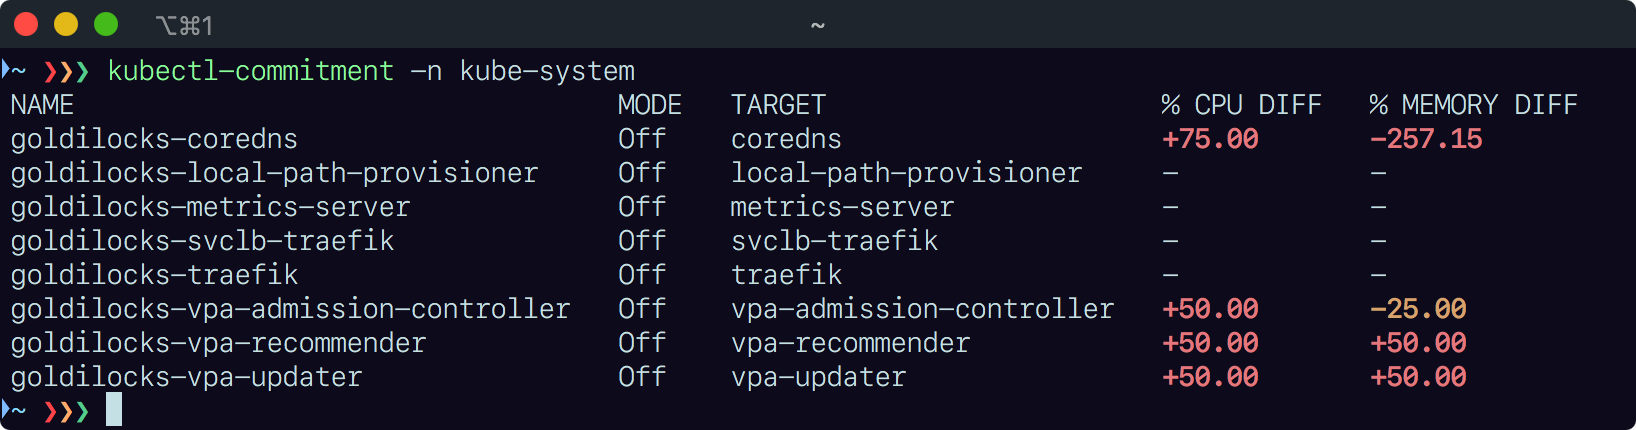
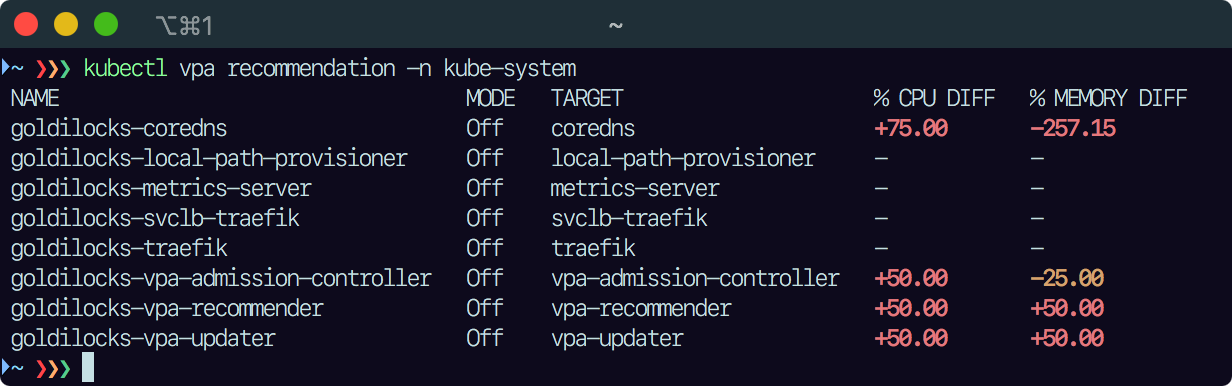
refactor: rename plugin to vpa-recommendation
Related to https://github.com/kubernetes-sigs/krew-index/pull/1923

diff --git a/vpa/target.go b/vpa/target.go
@@ -14,7 +14,7 @@ import (
 	"k8s.io/apimachinery/pkg/runtime"
 	"k8s.io/apimachinery/pkg/runtime/schema"
 
-	"github.com/wI2L/kubectl-commitment/client"
+	"github.com/wI2L/kubectl-vpa-recommendation/client"
 )
 
 // wellKnownControllerKind represents the Kind of common controllers.
@@ -73,6 +73,14 @@ func NewTargetController(c client.Interface, ref *autoscalingv1.CrossVersionObje
 	if err != nil {
 		return nil, err
 	}
+	labelSelector, err := resolveLabelSelector(obj)
+	if err != nil {
+		return nil, err
+	}
+	selector, err := metav1.LabelSelectorAsSelector(labelSelector)
+	if err != nil {
+		return nil, err
+	}
 	// The PodSpec template defined by a controller might not represent
 	// the final spec of the pods. For example, a LimitRanger controller
 	// could change the spec of pods to set default resource requests and
@@ -89,7 +97,7 @@ func NewTargetController(c client.Interface, ref *autoscalingv1.CrossVersionObje
 	if err := conv.FromUnstructured(m, &meta); err != nil {
 		return nil, err
 	}
-	pods, err := c.ListDependentPods(context.Background(), meta)
+	pods, err := c.ListDependentPods(context.Background(), meta, selector.String())
 	if err != nil {
 		return nil, err
 	}
@@ -103,22 +111,22 @@ func NewTargetController(c client.Interface, ref *autoscalingv1.CrossVersionObje
 }
 
 // GetContainerRequests returns the resource requests of a container.
-func (tc *TargetController) GetContainerRequests(name string) *ResourceQuantities {
+func (tc *TargetController) GetContainerRequests(name string) ResourceQuantities {
 	for _, c := range tc.podSpec.Containers {
 		if c.Name == name {
-			return &ResourceQuantities{
+			return ResourceQuantities{
 				CPU:    c.Resources.Requests.Cpu(),
 				Memory: c.Resources.Requests.Memory(),
 			}
 		}
 	}
-	return nil
+	return ResourceQuantities{}
 }
 
 // GetRequests returns the resource requests defined by the
 // pod spec of the controller, which is the sum of all resource
 // quantities for each container declared by the spec.
-func (tc *TargetController) GetRequests() *ResourceQuantities {
+func (tc *TargetController) GetRequests() ResourceQuantities {
 	var cpu, mem resource.Quantity
 
 	for _, ctr := range tc.podSpec.Containers {
@@ -130,20 +138,47 @@ func (tc *TargetController) GetRequests() *ResourceQuantities {
 			mem.Add(*m)
 		}
 	}
-	return &ResourceQuantities{CPU: &cpu, Memory: &mem}
+	return ResourceQuantities{CPU: &cpu, Memory: &mem}
 }
 
-// resolvePodSpec returns the corev1.PodSpec field of a
-// controller. The method cache the result during its first
-// call and return the same value for subsequent calls.
+// resolvePodSpec returns the corev1.PodSpec field of a controller.
 func resolvePodSpec(obj *unstructuredv1.Unstructured) (*corev1.PodSpec, error) {
-	kind := obj.GetKind()
-
 	fields := []string{
 		"spec",
 		"template", // PodTemplateSpec
 		"spec",     // PodSpec
 	}
+	var err error
+	fields, err = genericControllerSpecPath(obj.GetKind(), fields)
+	if err != nil {
+		return nil, err
+	}
+	spec := &corev1.PodSpec{}
+	if err := decodeNestedFieldInto(obj, fields, spec); err != nil {
+		return nil, err
+	}
+	return spec, nil
+}
+
+// resolveLabelSelector returns the metav1.LabelSelector field of a controller spec.
+func resolveLabelSelector(obj *unstructuredv1.Unstructured) (*metav1.LabelSelector, error) {
+	fields := []string{
+		"spec",
+		"selector",
+	}
+	var err error
+	fields, err = genericControllerSpecPath(obj.GetKind(), fields)
+	if err != nil {
+		return nil, err
+	}
+	selector := &metav1.LabelSelector{}
+	if err := decodeNestedFieldInto(obj, fields, selector); err != nil {
+		return nil, err
+	}
+	return selector, nil
+}
+
+func genericControllerSpecPath(kind string, fields []string) ([]string, error) {
 	switch wellKnownControllerKind(kind) {
 	case ds, deploy, job, rs, rc, sts:
 		// Same default fields.
@@ -152,23 +187,22 @@ func resolvePodSpec(obj *unstructuredv1.Unstructured) (*corev1.PodSpec, error) {
 			"spec",        // CronJobSpec
 			"jobTemplate", // JobTemplateSpec
 		}
-		fields = append(prefix, fields...)
+		return append(prefix, fields...), nil
 	default:
 		return nil, fmt.Errorf("unknown kind: %s", kind)
 	}
+	return fields, nil
+}
+
+func decodeNestedFieldInto(obj *unstructuredv1.Unstructured, fields []string, into interface{}) error {
 	nmap, ok, err := unstructuredv1.NestedMap(obj.Object, fields...)
 	if err != nil {
-		return nil, fmt.Errorf("nested field has invalid type")
+		return fmt.Errorf("nested field has invalid type")
 	}
 	if !ok {
-		return nil, fmt.Errorf("nested field with path %s not found", strings.Join(fields, "."))
+		return fmt.Errorf("nested field with path %s not found", strings.Join(fields, "."))
 	}
 	conv := runtime.DefaultUnstructuredConverter
-	spec := &corev1.PodSpec{}
 
-	err = conv.FromUnstructured(nmap, spec)
-	if err != nil {
-		return nil, err
-	}
-	return spec, nil
+	return conv.FromUnstructured(nmap, into)
 }

diff --git a/client/client.go b/client/client.go
@@ -43,7 +43,7 @@ type Interface interface {
 	HasGroupVersion(version schema.GroupVersion) (bool, error)
 	ListVPAResources(context.Context, ListOptions) ([]*vpav1.VerticalPodAutoscaler, error)
 	GetVPATarget(context.Context, *autoscalingv1.CrossVersionObjectReference, string) (*unstructuredv1.Unstructured, error)
-	ListDependentPods(ctx context.Context, targetMeta metav1.ObjectMeta) ([]*corev1.Pod, error)
+	ListDependentPods(ctx context.Context, targetMeta metav1.ObjectMeta, labelSelector string) ([]*corev1.Pod, error)
 }
 
 var _ Interface = (*client)(nil)
@@ -191,14 +191,15 @@ func (c *client) GetVPATarget(ctx context.Context, ref *autoscalingv1.CrossVersi
 
 // ListDependentPods returns the list of pods that depends
 // on the controller represented by its metadata.
-func (c *client) ListDependentPods(ctx context.Context, targetMeta metav1.ObjectMeta) ([]*corev1.Pod, error) {
+func (c *client) ListDependentPods(ctx context.Context, targetMeta metav1.ObjectMeta, labelSelector string) ([]*corev1.Pod, error) {
 	i := c.coreClient.Pods(targetMeta.Namespace)
 
 	p := pager.New(func(ctx context.Context, o metav1.ListOptions) (runtime.Object, error) {
 		return i.List(ctx, o)
 	})
 	obj, _, err := p.List(ctx, metav1.ListOptions{
-		Limit: 250,
+		LabelSelector: labelSelector,
+		Limit:         250,
 	})
 	if err != nil {
 		return nil, err

diff --git a/cli/command.go b/cli/command.go
@@ -18,9 +18,9 @@ import (
 	"k8s.io/kubectl/pkg/util/templates"
 	"k8s.io/utils/pointer"
 
-	"github.com/wI2L/kubectl-commitment/client"
-	"github.com/wI2L/kubectl-commitment/internal/version"
-	"github.com/wI2L/kubectl-commitment/vpa"
+	"github.com/wI2L/kubectl-vpa-recommendation/client"
+	"github.com/wI2L/kubectl-vpa-recommendation/internal/version"
+	"github.com/wI2L/kubectl-vpa-recommendation/vpa"
 )
 
 const (
@@ -218,7 +218,7 @@ func (co *CommandOptions) bindRecommendationsAndRequests(list []*vpav1.VerticalP
 				childRow := &tableRow{
 					Name:             fmt.Sprintf("%s %s", prefix, c.ContainerName),
 					Requests:         rqs,
-					Recommendations:  &rcs,
+					Recommendations:  rcs,
 					CPUDifference:    vpa.DiffQuantitiesAsPercent(rqs.CPU, rcs.CPU),
 					MemoryDifference: vpa.DiffQuantitiesAsPercent(rqs.Memory, rcs.Memory),
 				}

diff --git a/vpa/recommendation.go b/vpa/recommendation.go
@@ -8,9 +8,9 @@ import (
 // GetTotalRecommendations returns the total resource recommendations
 // of the given VPA as the sum of all resource quantities recommended
 // for each container.
-func GetTotalRecommendations(vpa *vpav1.VerticalPodAutoscaler) *ResourceQuantities {
+func GetTotalRecommendations(vpa *vpav1.VerticalPodAutoscaler) ResourceQuantities {
 	if vpa == nil || vpa.Status.Recommendation == nil {
-		return nil
+		return ResourceQuantities{}
 	}
 	var cpu, mem resource.Quantity
 	for _, cr := range vpa.Status.Recommendation.ContainerRecommendations {
@@ -21,7 +21,7 @@ func GetTotalRecommendations(vpa *vpav1.VerticalPodAutoscaler) *ResourceQuantiti
 			mem.Add(*m)
 		}
 	}
-	return &ResourceQuantities{
+	return ResourceQuantities{
 		CPU:    &cpu,
 		Memory: &mem,
 	}

diff --git a/cmd/kubectl-vpa-recommendation/kubectl-vpa-recommendation.go b/cmd/kubectl-vpa-recommendation/kubectl-vpa-recommendation.go
@@ -15,10 +15,10 @@ import (
 	// Initialize client auth plugins.
 	_ "k8s.io/client-go/plugin/pkg/client/auth"
 
-	"github.com/wI2L/kubectl-commitment/cli"
+	"github.com/wI2L/kubectl-vpa-recommendation/cli"
 )
 
-const pluginName = "kubectl-commitment"
+const pluginName = "kubectl-vpa-recommendation"
 
 func main() {
 	cmdName := pluginName
@@ -27,7 +27,7 @@ func main() {
 	// use a nicer format for the root command name in
 	// help outputs generated by cobra.
 	if strings.HasPrefix(filepath.Base(os.Args[0]), "kubectl-") {
-		cmdName = strings.ReplaceAll(cmdName, "-", "")
+		cmdName = strings.ReplaceAll(cmdName, "-", " ")
 	}
 	streams := genericclioptions.IOStreams{
 		In:     os.Stdin,

diff --git a/cli/table.go b/cli/table.go
@@ -12,7 +12,7 @@ import (
 	"k8s.io/apimachinery/pkg/api/resource"
 	"k8s.io/apimachinery/pkg/runtime/schema"
 
-	"github.com/wI2L/kubectl-commitment/vpa"
+	"github.com/wI2L/kubectl-vpa-recommendation/vpa"
 )
 
 const (
@@ -54,8 +54,8 @@ type tableRow struct {
 	Mode             string
 	TargetName       string
 	TargetGVK        schema.GroupVersionKind
-	Requests         *vpa.ResourceQuantities
-	Recommendations  *vpa.ResourceQuantities
+	Requests         vpa.ResourceQuantities
+	Recommendations  vpa.ResourceQuantities
 	CPUDifference    *float64
 	MemoryDifference *float64
 	Children         []*tableRow

diff --git a/vpa/resource.go b/vpa/resource.go
@@ -22,7 +22,7 @@ type ResourceQuantities struct {
 // two quantities expressed as a percentage of each other,
 // where x is the request and y the recommendation.
 func DiffQuantitiesAsPercent(x, y *resource.Quantity) *float64 {
-	if x.IsZero() || y.IsZero() {
+	if x == nil || y == nil || x.IsZero() || y.IsZero() {
 		return nil
 	}
 	ai, oka := x.AsInt64()

diff --git a/README.md b/README.md
@@ -1,10 +1,10 @@
-# kubectl commitment
+# `kubectl vpa-recommendation`
 
 <p align="left">
-    <a href="https://github.com/wI2L/kubectl-commitment/actions"><img src="https://github.com/wI2L/kubectl-commitment/workflows/ci/badge.svg"></a>
-    <a href="https://goreportcard.com/report/github.com/wI2L/kubectl-commitment"><img src="https://goreportcard.com/badge/github.com/wI2L/kubectl-commitment"></a>
-    <a href="https://github.com/wI2L/kubectl-commitment/releases"><img src="https://img.shields.io/github/v/tag/wI2L/kubectl-commitment?color=blueviolet&label=release&sort=semver"></a>
-    <img src="https://codecov.io/gh/wI2L/kubectl-commitment/branch/master/graph/badge.svg?token=UTD8CW2ZS2"/>
+    <a href="https://github.com/wI2L/kubectl-vpa-recommendation/actions"><img src="https://github.com/wI2L/kubectl-vpa-recommendation/workflows/ci/badge.svg"></a>
+    <a href="https://goreportcard.com/report/github.com/wI2L/kubectl-vpa-recommendation"><img src="https://goreportcard.com/badge/github.com/wI2L/kubectl-vpa-recommendation"></a>
+    <a href="https://github.com/wI2L/kubectl-vpa-recommendation/releases"><img src="https://img.shields.io/github/v/tag/wI2L/kubectl-vpa-recommendation?color=blueviolet&label=release&sort=semver"></a>
+    <img src="https://codecov.io/gh/wI2L/kubectl-vpa-recommendation/branch/master/graph/badge.svg?token=UTD8CW2ZS2"/>
     <a href="LICENSE"><img src="https://img.shields.io/badge/License-MIT-blue.svg"></a>
 </p>
 
@@ -14,23 +14,30 @@ The plugin is compatible with Kubernetes servers starting from version 1.16, whi
 
 ## Installation
 
+### With [Krew](https://krew.sigs.k8s.io/)
+
+```shell
+$ kubectl krew install vpa-recommendation
+$ kubectl vpa-recommendation --help
+```
+
 ### Manual download
 
-Head to the [releases](https://github.com/wI2L/kubectl-commitment/releases) page to download an existing release for your OS/arch, and add the path to the binary to your `$PATH`.
+Head to the [releases](https://github.com/wI2L/kubectl-vpa-recommendation/releases) page to download an existing release for your OS/arch, and add the path to the binary to your `$PATH`.
 
 ### Build from source
 
-:warning: `kubectl-commitment` requires [Go 1.17+](https://golang.org/doc/install) to build.
+:warning: `kubectl-vpa-recommendation` requires [Go 1.17+](https://golang.org/doc/install) to build.
 
 To build the plugin yourself from the source, use the following commands:
 
 ```shell
-$ git clone git@github.com:wI2L/kubectl-commitment.git
-$ cd kubectl-commitment
+$ git clone git@github.com:wI2L/kubectl-vpa-recommendation.git
+$ cd kubectl-vpa-recommendation
 $ make build
 ```
 
-It creates a single binary file for the host machine platform/architecture in the `dist/` folder. Move it somewhere within your `$PATH`, such as `$GOPATH/bin`. You can then invoke it directly (`kubectl-commitment`), or via `kubectl` (`kubectl commitment`).
+It creates a single binary file for the host machine platform/architecture in the `dist/` folder. Move it somewhere within your `$PATH`, such as `$GOPATH/bin`. You can then invoke it directly (`kubectl-vpa-recommendation`), or via `kubectl` (`kubectl vpa-recommendation`).
 
 ## Usage
 
@@ -63,12 +70,12 @@ Apart from the flags defined by the [`genericclioptions`](https://pkg.go.dev/k8s
 To view the full list of available options, use the following command:
 
 ```shell
-$ kubectl commitment --help
+$ kubectl vpa-recommendation --help
 ```
 
 ## Limitations
 
-- Unlike the [official VPA recommender](https://github.com/kubernetes/autoscaler/blob/master/vertical-pod-autoscaler/pkg/recommender/README.md), which is fully generic and handle any kind of "scalable" resources, the plugin only recognize the *well-known* controllers such as: `CronJob`, `DaemonSet`, `Deployment`, `Job`, `ReplicaSet`, `ReplicationController`, `StatefulSet`.
+- Unlike the [official VPA recommender](https://github.com/kubernetes/autoscaler/blob/master/vertical-pod-autoscaler/pkg/recommender/README.md), which is fully generic and handle any kind of "scalable" resources, the plugin recognize only some *well-known* controllers such as: `CronJob`, `DaemonSet`, `Deployment`, `Job`, `ReplicaSet`, `ReplicationController`, `StatefulSet`.
 
 ## License
 
